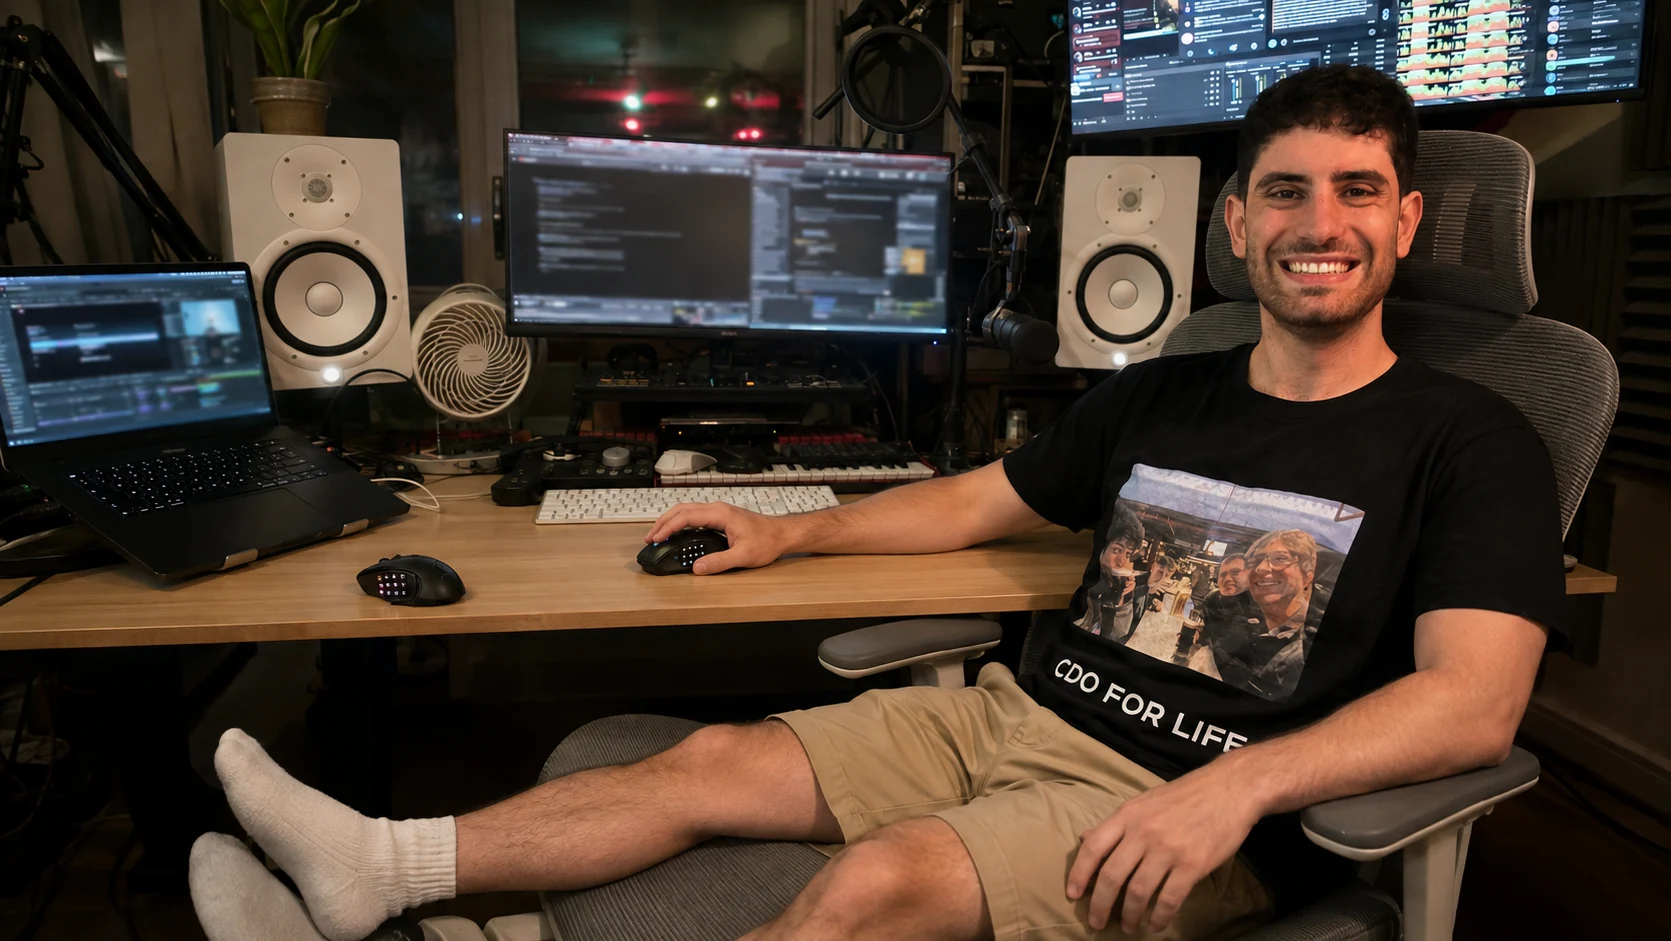
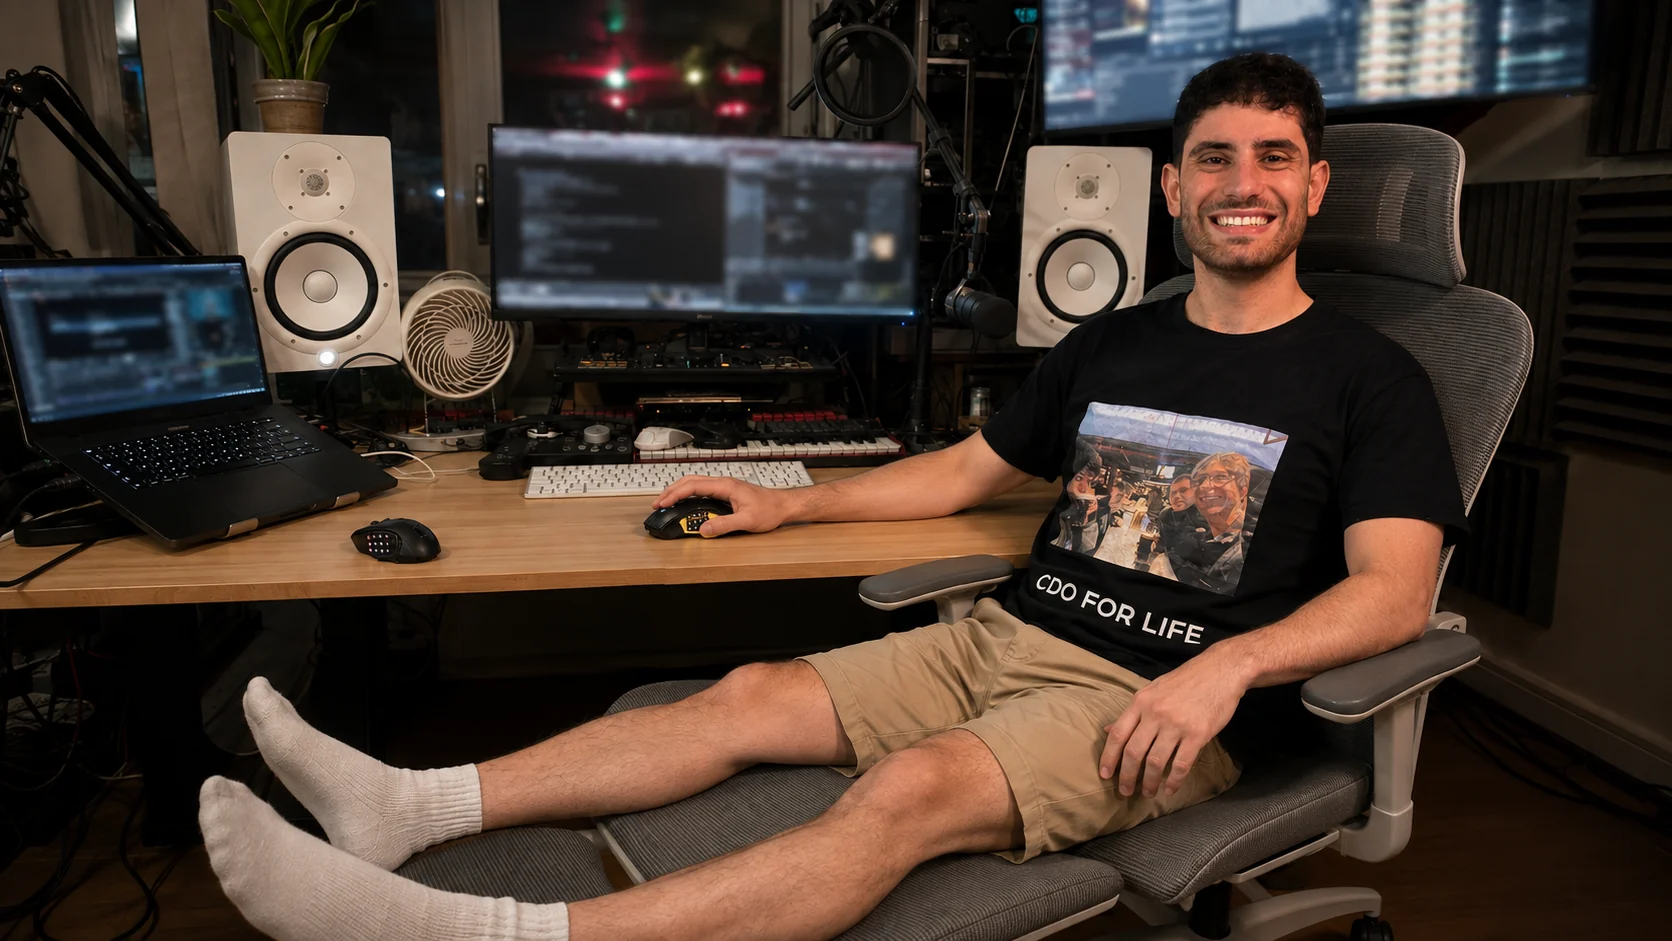
Correct lounge portrait proportions and contain the Razer side keys

diff --git a/docs/index.html b/docs/index.html
@@ -250,7 +250,7 @@
             <div class="lounge-photo">
               <img
                 src="./assets/ethan-lounging.webp?v=__SITE_VERSION__"
-                width="1671"
+                width="1672"
                 height="941"
                 alt="AI scene of Ethan reclining in a grey Hbada chair, using one mouse on his bamboo desk with a second mouse beside it and his free hand resting in his lap"
                 loading="lazy"

diff --git a/docs/showcase.css b/docs/showcase.css
@@ -535,7 +535,7 @@ button {
   background: #231e1d;
 }
 .lounge-photo > img {
-  aspect-ratio: 1671/941;
+  aspect-ratio: 1672/941;
   object-fit: contain;
   transform-origin: center;
   will-change: transform;

diff --git a/Scripts/build-mouse-models.py b/Scripts/build-mouse-models.py
@@ -324,10 +324,10 @@ def make_mouse(brand):
     centers=[]
     if razer:
         cols=[-14,-3.6,6.8,17.2]
-        key_w,key_h=8.2,9.0
+        key_w,key_h=8.2,7.2
         for col,z in enumerate(cols):
             for row in range(3):
-                y=29.4-row*9.8-(abs(col-1.5)*.42)
+                y=4+(29.4-row*9.8-(abs(col-1.5)*.42)-4)*.8  # Bug: Before this fix, the Naga's upper keys crossed its shell seam in the side view. Fix: Fit the complete grid and sockets below the lowest shoulder, preserving the lower shell margin. (Codex task: 01a06ee5-4aa0-7a61-a029-704e5c44a8f2)
                 centers.append((col*3+row+1,z+row*2.0,y,col))
     else:
         cols=[-23,-10,3,16]

diff --git a/LEARNINGS.md b/LEARNINGS.md
@@ -2598,6 +2598,7 @@ remains evidence for why the earlier `-p` and explicit-child variants failed.
 
 - Keep the two Blender-authored models separate: the Naga has a curved right-side thumb housing and continuous click/palm surface; the Scimitar SE has a left-side recessed yellow Key Slider and separate click plates. Ethan rejected generic rounded-shell stand-ins. Geometry stores printed numbers only; native exports own their physical-cell actions.
 - A full mouse can hide a camera-facing key behind its shell. Raycast the complete model before exposing each HTML hit target, rather than relying on the face normal alone. Place Naga sockets against each key's local curved surface; a single planar grid visibly floats off the lower housing.
+- Fit the Naga's complete keycaps and sockets below its lowest shoulder, including their tilt and bevels. Checking only key centres left the upper row crossing the shell seam. Verify the rebuilt GLB in the default side view and after pointer rotation; preserve native printed-number metadata and projected click targets.
 - Use restrained, broad studio reflections for black ABS. RoomEnvironment's bright rectangular emitters made these models look metallic, and smooth cube normals made beveled flat keys look inflated. Weighted face normals and matching dark key materials preserve the actual manufacturing differences without silver key columns.
 - Include both GLB and WebAssembly files in the site artifact and content digest. The hardware contract test checks twelve native printed buttons, a speech control, and the local decoder. Manually verify asset-load failure still exposes the product photographs and working HTML mode grid.
 - On phones, place the reference photo, model, output panel and metadata in document flow. A shortened canvas with absolute overlays covered the mouse. Resize and project keys against the dedicated model box so moving the output below it preserves pointer alignment.

diff --git a/docs/SHOWCASE.md b/docs/SHOWCASE.md
@@ -115,8 +115,10 @@ Every displayed image retains its source aspect ratio. Hardware thumbnails use
   in iPhone Photos. The portrait, taken on 2 September 2026, supplies his short
   haircut, face and outfit: a black graphic T-shirt and beige shorts. The desk
   photo supplies the bamboo top, laptop, monitors, speakers and microphone setup.
-  The final image was generated afresh from those two original photos, without
-  feeding earlier AI composites back into the face reference.
+  The corrected image uses those original photos for identity and room details,
+  the previous composition for framing, and the official black/yellow Corsair
+  product image for the mouse under his right hand. The wider framing preserves
+  natural leg proportions; the original portrait remains the face reference.
   The reclining pose and chair are AI reimagined. Both mice rest on the main
   desktop, with one in use and the other parked beside it. The image
   remains labelled as AI on the page; it is not a documentary photograph or a
